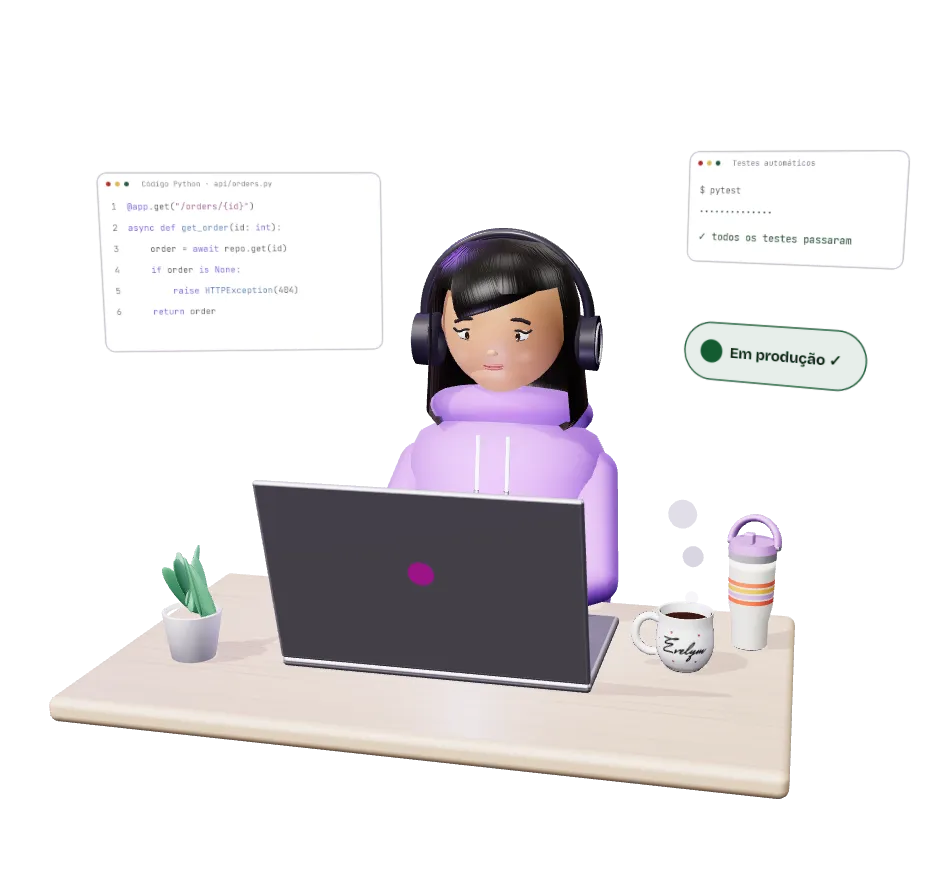
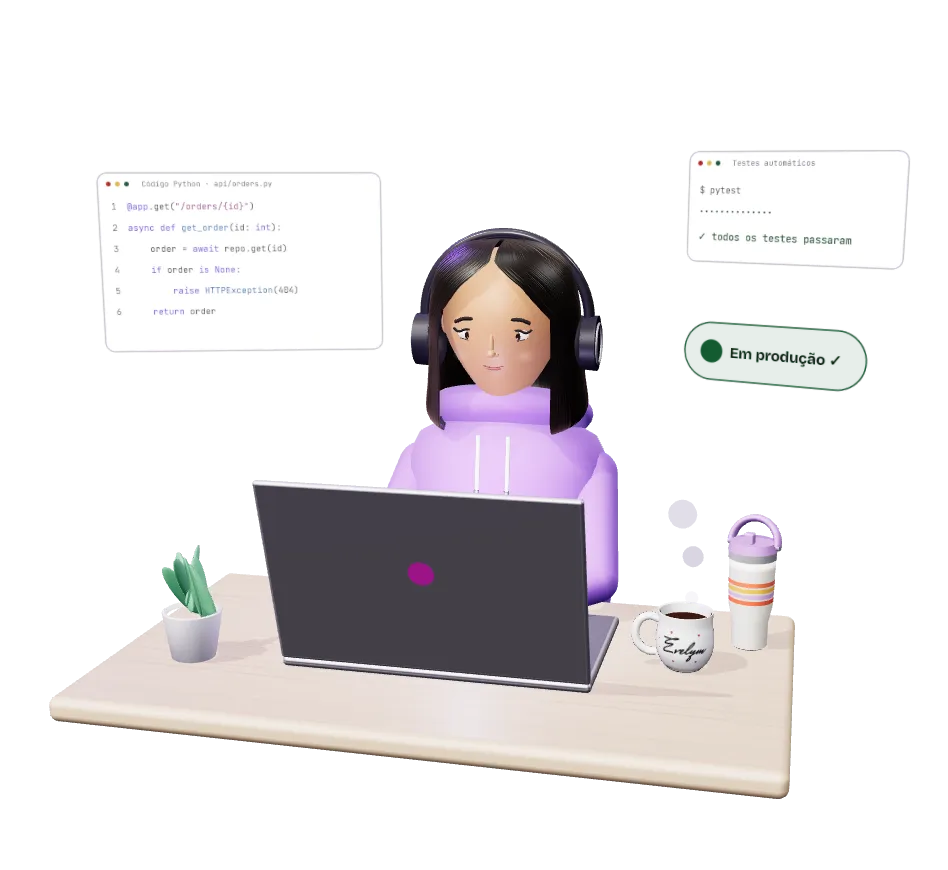
feat: reparte o cabelo ao meio e afina o rosto e o nariz da personagem

Changed region(s): [[0.4283, 0.2793, 0.6118, 0.4966]]

diff --git a/components/scene/hero-scene.ts b/components/scene/hero-scene.ts
@@ -13,6 +13,7 @@
  */
 import {
   ACESFilmicToneMapping,
+  BufferGeometry,
   CanvasTexture,
   CapsuleGeometry,
   CatmullRomCurve3,
@@ -21,6 +22,7 @@ import {
   CylinderGeometry,
   DirectionalLight,
   DoubleSide,
+  Float32BufferAttribute,
   Fog,
   Group,
   HemisphereLight,
@@ -44,7 +46,6 @@ import {
   Vector2,
   Vector3,
   WebGLRenderer,
-  type BufferGeometry,
   type Material,
   type MeshPhysicalMaterialParameters,
   type Object3D,
@@ -710,10 +711,19 @@ export async function createHeroScene(
   head.position.set(0, 1.0, Z + 0.06);
   head.rotation.x = 0.15;
   root.add(head);
-  mesh(new SphereGeometry(0.25, 56, 40), mSkin, head).scale.set(0.9, 1.04, 0.95);
-  const chin = mesh(new SphereGeometry(0.135, 40, 28), mSkin, head);
-  chin.position.set(0, -0.135, 0.075);
-  chin.scale.set(0.95, 0.86, 0.95);
+  // Rosto em V (fotos da dona, 2026-11-20): da linha dos olhos para baixo, a cabeça afina até um queixo estreito.
+  const skull = new SphereGeometry(0.25, 64, 48);
+  const sp = skull.attributes.position;
+  // O queixo sai da própria cabeça, alongada para baixo e afinando até a ponta, sem emenda.
+  for (let i = 0; i < sp.count; i++) {
+    const y = sp.getY(i);
+    const t = Math.min(1, Math.max(0, -y / 0.25));
+    sp.setX(i, sp.getX(i) * (1 - 0.36 * t ** 1.3));
+    sp.setY(i, y - 0.06 * t ** 2.2);
+    if (sp.getZ(i) > 0) sp.setZ(i, sp.getZ(i) * (1 + 0.06 * t));
+  }
+  skull.computeVertexNormals();
+  mesh(skull, mSkin, head).scale.set(0.9, 1.04, 0.95);
   for (const s of [-1, 1]) {
     const ear = mesh(new SphereGeometry(0.04, 16, 12), mSkin, head);
     ear.position.set(0.222 * s, -0.02, 0);
@@ -789,16 +799,23 @@ export async function createHeroScene(
     cheek.rotation.y = 0.42 * s;
     return eye;
   });
-  // nariz pequeno, ponta arredondada e asas discretas
+  // nariz afilado: dorso reto e ponta fina projetada para a frente, asas discretas
   const nose = new Group();
-  nose.position.set(0, -0.064, 0.232);
+  nose.position.set(0, -0.064, 0.236);
   head.add(nose);
-  mesh(new SphereGeometry(0.0145, 24, 16), mSkin, nose).scale.set(1.15, 0.88, 0.75);
-  const bridge = mesh(new SphereGeometry(0.011, 20, 14), mSkin, nose);
-  bridge.position.set(0, 0.03, -0.007);
-  bridge.scale.set(0.8, 2.6, 0.75);
+  const tip = mesh(new SphereGeometry(0.017, 24, 16), mSkin, nose);
+  tip.scale.set(0.92, 0.86, 1.3);
+  tip.position.z = 0.008;
+  const bridge = mesh(new SphereGeometry(0.0135, 20, 14), mSkin, nose);
+  bridge.position.set(0, 0.036, -0.002);
+  bridge.rotation.x = -0.18;
+  bridge.scale.set(0.72, 3, 1.05);
   for (const s of [-1, 1])
-    mesh(new SphereGeometry(0.0085, 16, 12), mSkin, nose).position.set(0.0125 * s, -0.004, -0.008);
+    mesh(new SphereGeometry(0.0095, 16, 12), mSkin, nose).position.set(0.0145 * s, -0.006, -0.006);
+  // sombra suave sob a ponta, para o nariz aparecer com a luz de frente
+  const noseShade = mesh(new PlaneGeometry(0.05, 0.026), blush, nose, false);
+  noseShade.position.set(0, -0.018, 0.004);
+  noseShade.rotation.x = -0.5;
   // boca: lábios rosa-amarronzados e a linha do sorriso com os cantos para cima
   const mouth = new Group();
   mouth.position.set(0, -0.118, 0.212);
@@ -820,8 +837,10 @@ export async function createHeroScene(
     mLipLine,
     mouth
   );
-  // cabelo: chanel até os ombros (casca com abertura para o rosto e pontas para dentro), franja de lado
-  const hairProfile = [
+  // Cabelo repartido ao meio, sem franja, até os ombros com as pontas para dentro (fotos da dona, 2026-11-20). Uma
+  // casca inteira, da qual se recorta a abertura do rosto: estreita no alto (a risca do meio, que deixa ver o couro
+  // cabeludo) e larga da altura dos olhos para baixo, com o cabelo emoldurando as laterais do rosto.
+  const hairRows = new SplineCurve([
     v2(0.001, 0.29),
     v2(0.14, 0.275),
     v2(0.235, 0.2),
@@ -831,35 +850,41 @@ export async function createHeroScene(
     v2(0.3, -0.33),
     v2(0.27, -0.375),
     v2(0.245, -0.36),
-  ];
-  mesh(new LatheGeometry(hairProfile, 64, 1.05, PI * 2 - 2.1), mHair, head).scale.set(1, 1, 1.02);
-  mesh(
-    new LatheGeometry(
-      [v2(0.001, 0.292), v2(0.14, 0.277), v2(0.222, 0.215), v2(0.245, 0.17), v2(0.252, 0.15)],
-      48
-    ),
-    mHair,
-    head
-  );
-  const fringe = mesh(
-    new LatheGeometry(
-      [
-        v2(0.001, 0.297),
-        v2(0.15, 0.283),
-        v2(0.248, 0.2),
-        v2(0.27, 0.135),
-        v2(0.266, 0.1),
-        v2(0.255, 0.092),
-      ],
-      40,
-      -0.25,
-      1.15
-    ),
-    mHair,
-    head
-  );
-  fringe.rotation.z = 0.3;
-  fringe.position.set(-0.02, -0.01, 0);
+  ]).getPoints(80);
+  // Meia largura da abertura do rosto na altura y.
+  const faceOpening = (y: number) =>
+    y > 0.25
+      ? 0.008
+      : y > 0.17
+        ? 0.008 + ((0.25 - y) / 0.08) * 0.1
+        : y > 0.05
+          ? 0.108 + ((0.17 - y) / 0.12) * 0.092
+          : 0.2;
+  // Cada fileira dá a volta a partir da borda do rosto (ângulo calculado), então a borda sai lisa, sem degraus.
+  const COLS = 120;
+  const hairPos: number[] = [];
+  const hairUv: number[] = [];
+  const hairIndex: number[] = [];
+  hairRows.forEach((p, i) => {
+    const open = Math.asin(Math.min(1, faceOpening(p.y) / Math.max(p.x, 1e-4)));
+    for (let j = 0; j <= COLS; j++) {
+      const phi = open + ((PI * 2 - 2 * open) * j) / COLS;
+      hairPos.push(p.x * Math.sin(phi), p.y, p.x * Math.cos(phi));
+      hairUv.push(j / COLS, i / (hairRows.length - 1));
+    }
+  });
+  for (let i = 0; i < hairRows.length - 1; i++)
+    for (let j = 0; j < COLS; j++) {
+      const a = i * (COLS + 1) + j;
+      const b = a + COLS + 1;
+      hairIndex.push(a, b, a + 1, b, b + 1, a + 1);
+    }
+  const hairGeo = new BufferGeometry();
+  hairGeo.setAttribute("position", new Float32BufferAttribute(hairPos, 3));
+  hairGeo.setAttribute("uv", new Float32BufferAttribute(hairUv, 2));
+  hairGeo.setIndex(hairIndex);
+  hairGeo.computeVertexNormals();
+  mesh(hairGeo, mHair, head).scale.set(1, 1, 1.02);
   // headphone: arco com acolchoado, hastes de metal, conchas com almofada e um LED
   mesh(new TorusGeometry(0.305, 0.02, 14, 64, PI), mPhones, head).position.set(0, 0, -0.03);
   const padding = mesh(new TorusGeometry(0.288, 0.016, 10, 48, PI * 0.5), mCushion, head);
